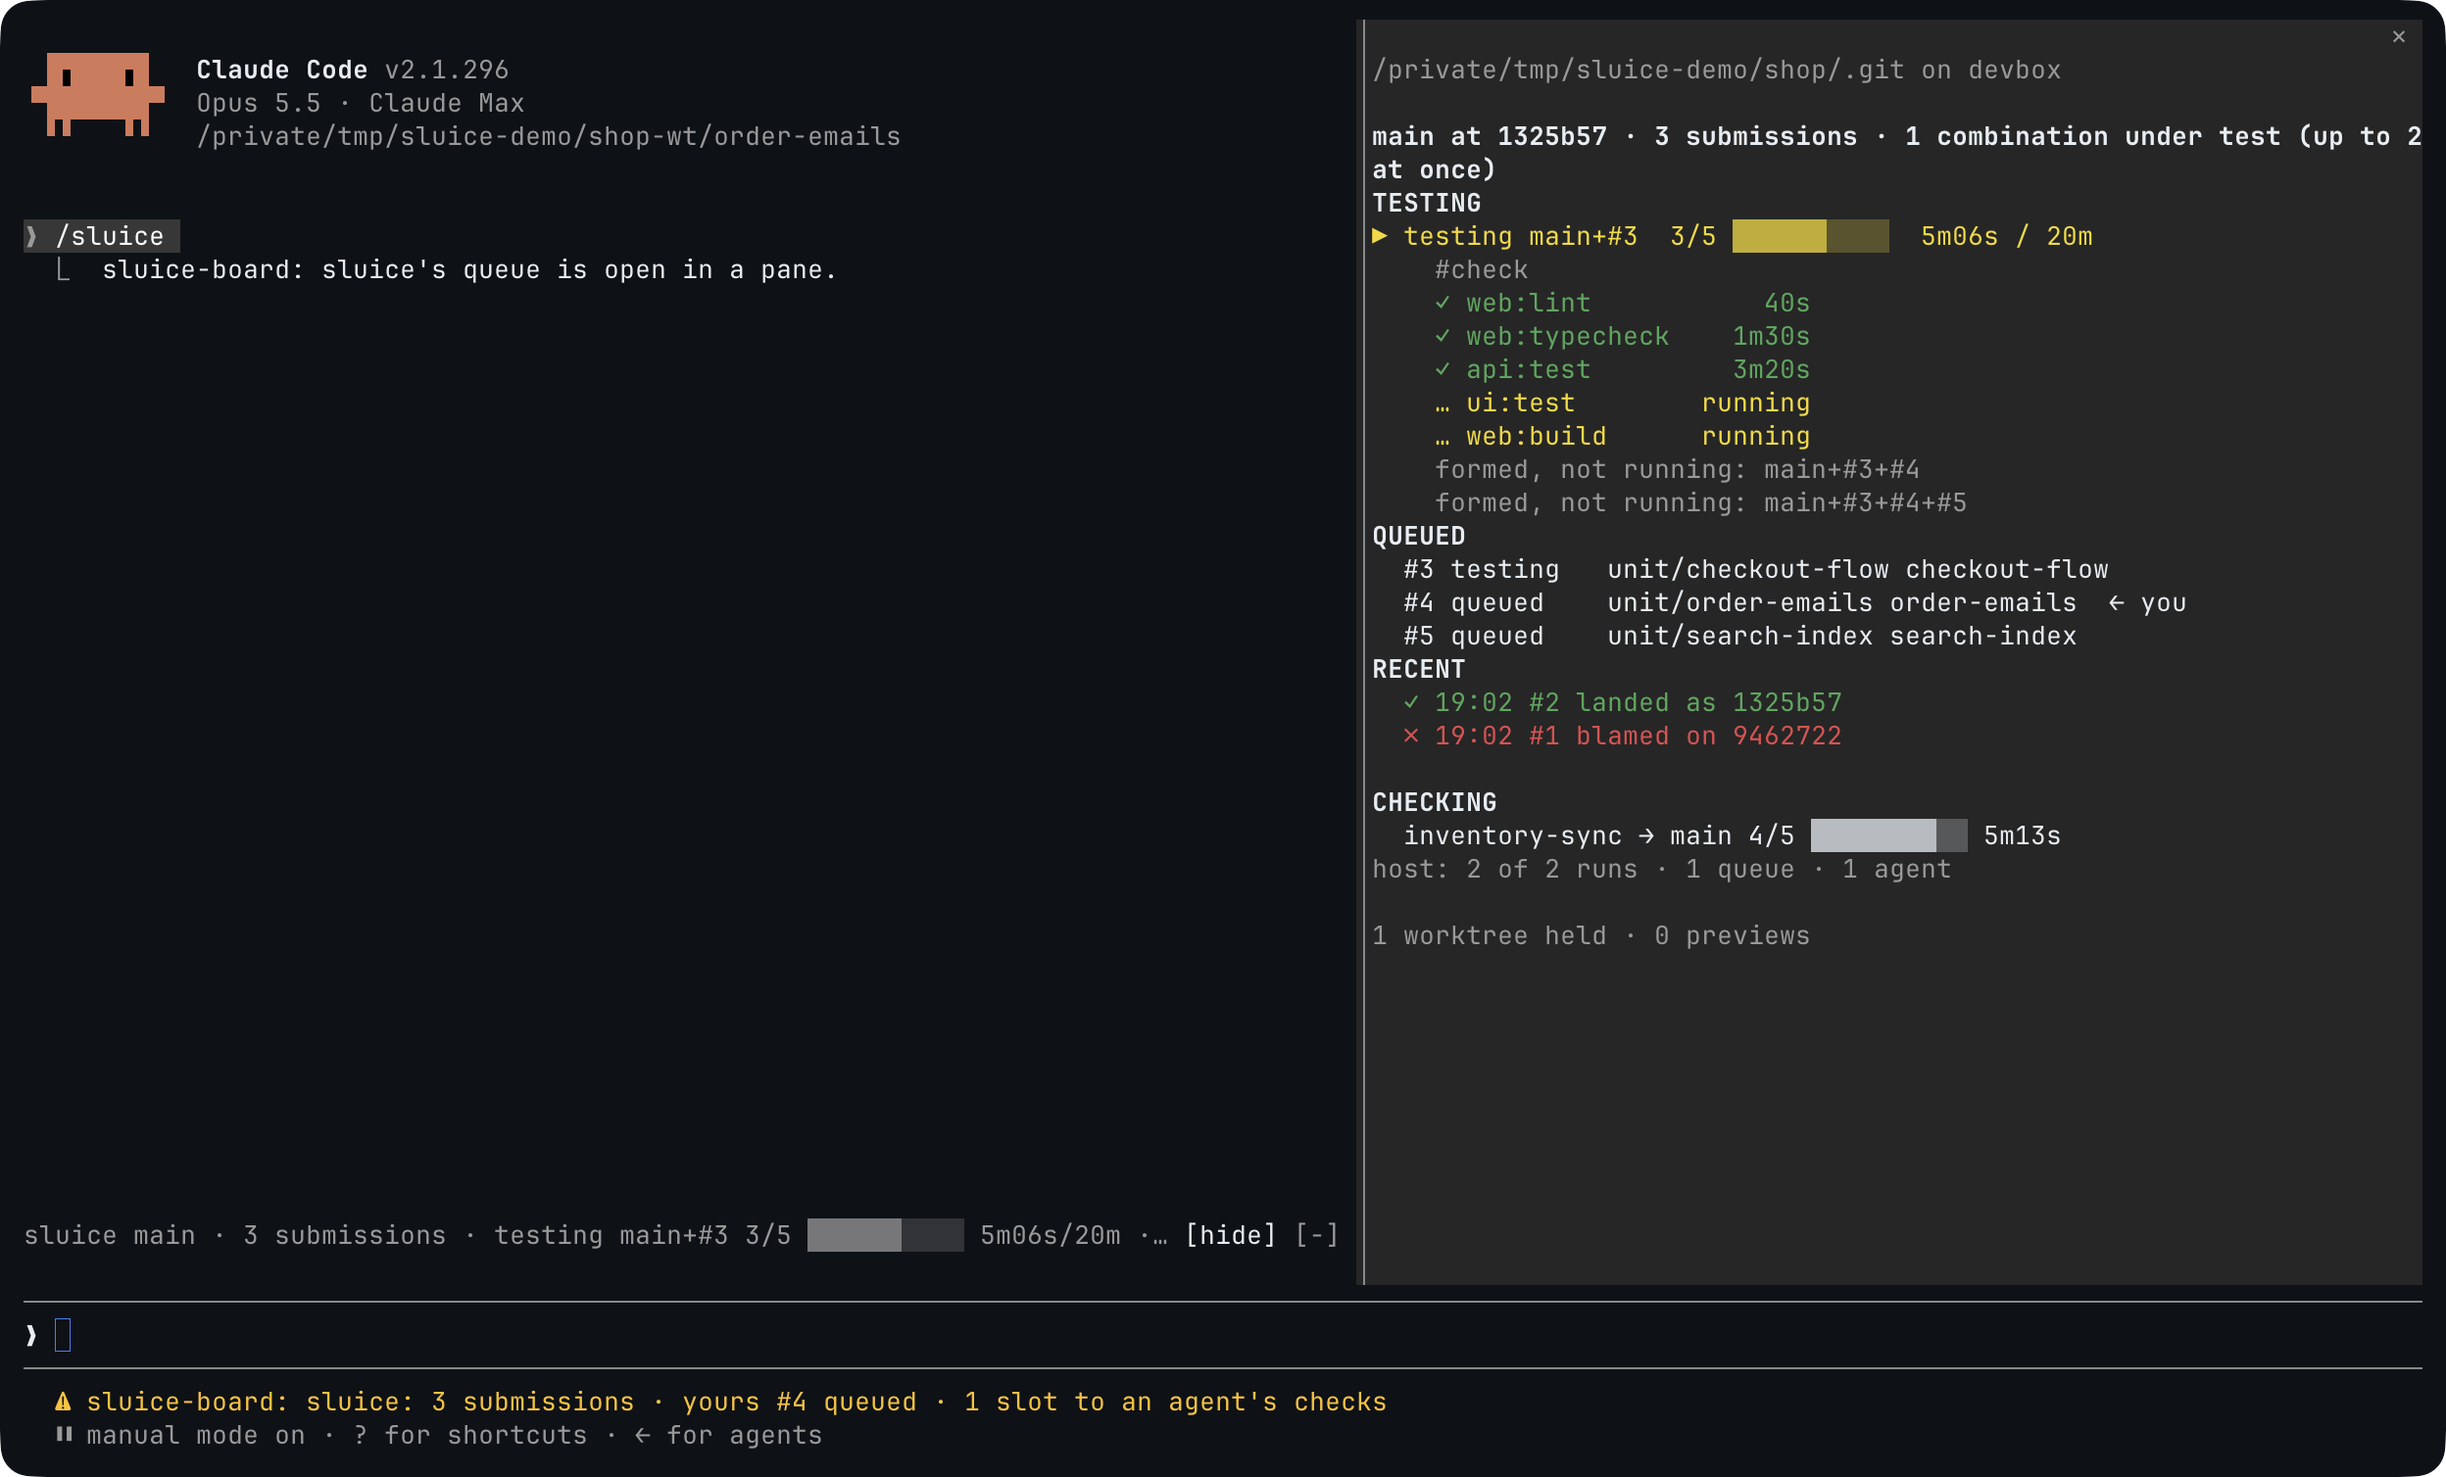
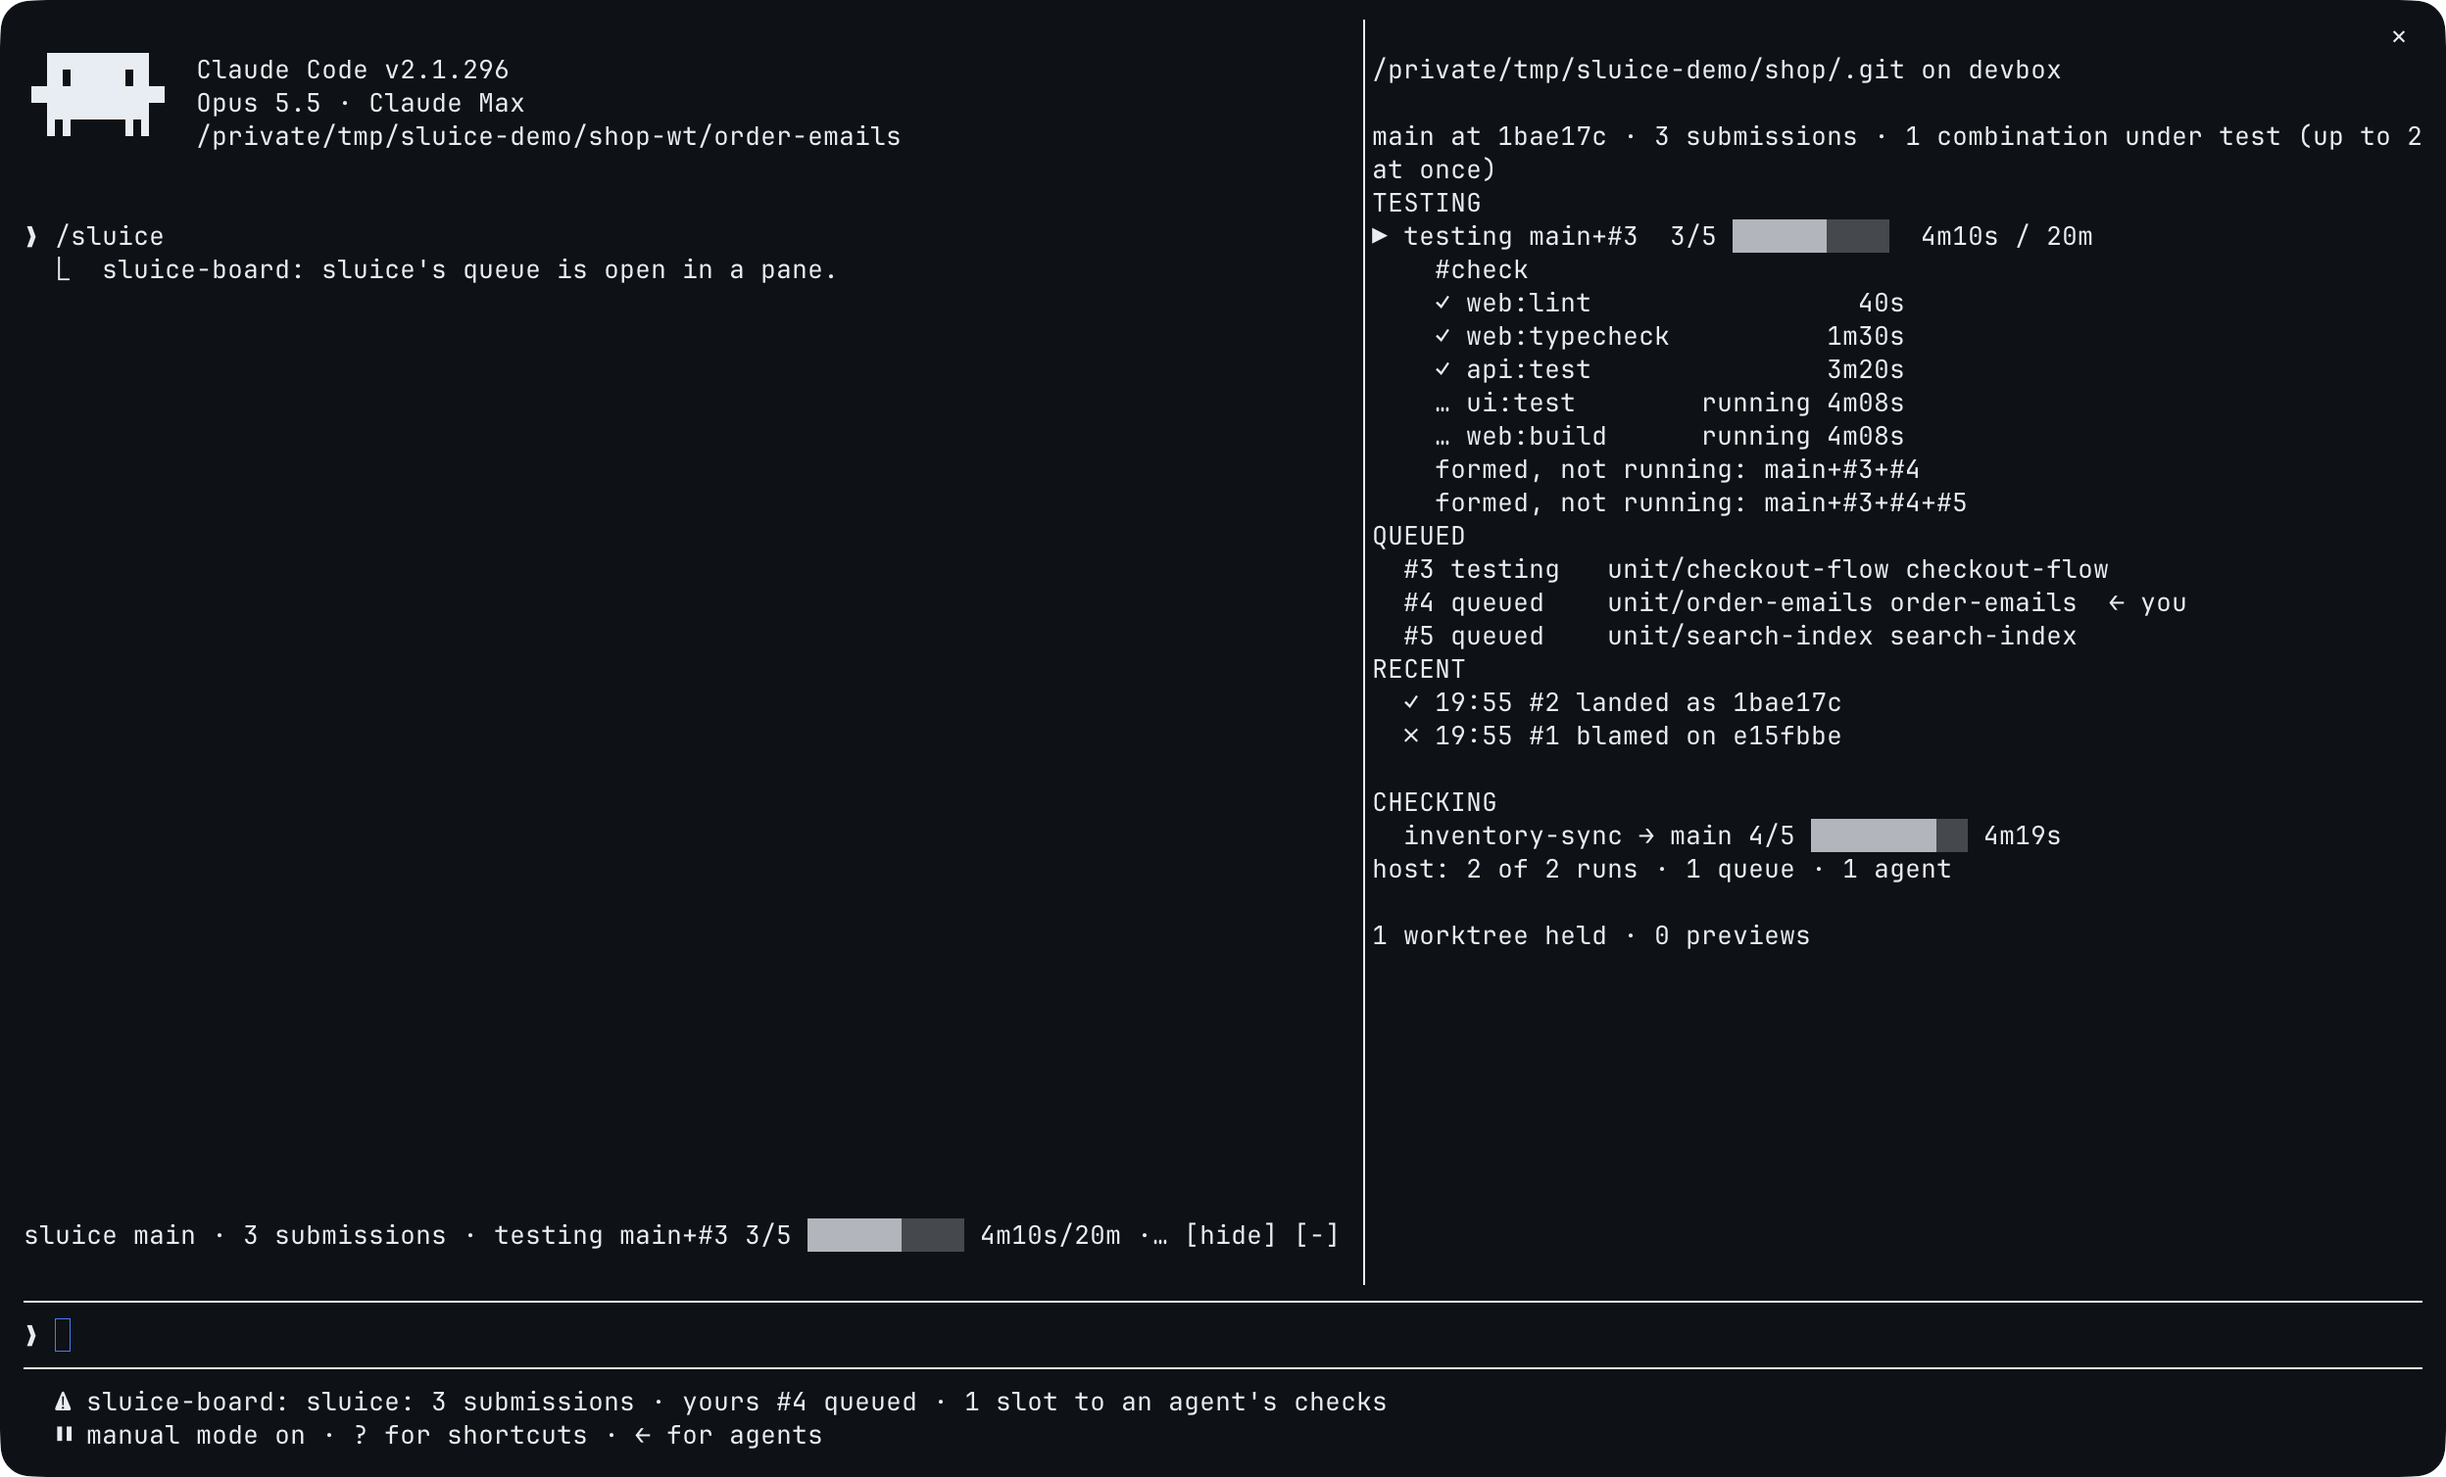
docs(plugin-board): retake the board's screenshots with a combination pressed open
The capture presses the combination's row as a person does, by keys
(ctrl+x tab twice, Tab, Enter, ctrl+x tab), so its tasks show opened,
three passed and two running. It trusts each worktree by its resolved
path, the one Claude Code asks about, and starts the demo's sessions
with --no-chrome, so neither question is in the frame. The alt text
says what the frames show.

diff --git a/site/src/content/docs/guides/claude-code.md b/site/src/content/docs/guides/claude-code.md
@@ -119,8 +119,8 @@ A second plugin, `sluice-board`, shows the queue inside the session:
 It needs no herdr: it shows the queue in any Claude Code session, with
 full-screen mode on or off.
 
-<a class="screenshot-light" href="/sluice/screenshots/board-light.webp"><img src="/sluice/screenshots/board-light.webp" alt="Claude Code with the /sluice pane docked on the right: two combinations under test at 3/5 with their tasks, one submission queued, a landing and a blame; the band above the prompt and the status line below it." width="1248" height="754" /></a>
-<a class="screenshot-dark" href="/sluice/screenshots/board-dark.webp"><img src="/sluice/screenshots/board-dark.webp" alt="Claude Code with the /sluice pane docked on the right: two combinations under test at 3/5 with their tasks, one submission queued, a landing and a blame; the band above the prompt and the status line below it." width="1248" height="754" /></a>
+<a class="screenshot-light" href="/sluice/screenshots/board-light.webp"><img src="/sluice/screenshots/board-light.webp" alt="Claude Code with the /sluice pane docked on the right: one combination under test at 3/5, pressed open to its tasks, three passed and two running; three submissions queued, this session's among them; a landing and a blame; an agent's check at 4/5; the band above the prompt and the status line below it." width="1248" height="754" /></a>
+<a class="screenshot-dark" href="/sluice/screenshots/board-dark.webp"><img src="/sluice/screenshots/board-dark.webp" alt="Claude Code with the /sluice pane docked on the right: one combination under test at 3/5, pressed open to its tasks, three passed and two running; three submissions queued, this session's among them; a landing and a blame; an agent's check at 4/5; the band above the prompt and the status line below it." width="1248" height="754" /></a>
 
 While a branch has a queue, the band above the prompt reads like
 `sluice main · 3 submissions · testing main+#12+#13 2m10s/15m · #14 waiting · last #11 landed as 9ecc34a`,

diff --git a/openspec/changes/the-boards-rows-open-in-place-or-link/tasks.md b/openspec/changes/the-boards-rows-open-in-place-or-link/tasks.md
@@ -49,7 +49,7 @@ command); add to `tests/fixture.ts` what a test needs. Run suites with
 
 ## 7. Screenshots and the gate
 
-- [ ] 7.1 Retake the screenshots with `moon run root:screenshots` in `devenv shell` on macOS, showing a combination opened if `plugins/screenshots-capture.sh` can press its row, else the pane folded; fix the alt text in the README and the guide to say what they show; by hand, since the gate drives no GUI terminal or logged-in Claude Code; verify by looking at `plugins/sluice-board/screenshots/board-{light,dark}.png` and `sluice exec main -- moon run site:prose`
+- [x] 7.1 Retake the screenshots with `moon run root:screenshots` in `devenv shell` on macOS, showing a combination opened if `plugins/screenshots-capture.sh` can press its row, else the pane folded; fix the alt text in the README and the guide to say what they show; by hand, since the gate drives no GUI terminal or logged-in Claude Code; verify by looking at `plugins/sluice-board/screenshots/board-{light,dark}.png` and `sluice exec main -- moon run site:prose`
 - [ ] 7.2 Try it once by hand: build the demo scene with `plugins/screenshots-scene.sh`, open `/sluice` in a session, press every row and follow every link; by hand, since only a person follows a link; every behaviour it checks has a test above
 - [x] 7.3 Commit, then run the gate's checks: `sluice exec main` passes
 

diff --git a/plugins/sluice-board/README.md b/plugins/sluice-board/README.md
@@ -4,7 +4,7 @@ sluice's queue inside a Claude Code session.
 
 <picture>
   <source media="(prefers-color-scheme: dark)" srcset="screenshots/board-dark.png">
-  <img src="screenshots/board-light.png" alt="Claude Code with the sluice board's /sluice pane docked on the right: two combinations under test at 3/5 with their tasks, one submission queued, a landing and a blame; the band above the prompt and the status line below it." width="800">
+  <img src="screenshots/board-light.png" alt="Claude Code with the sluice board's /sluice pane docked on the right: one combination under test at 3/5, pressed open to its tasks, three passed and two running; three submissions queued, this session's among them; a landing and a blame; an agent's check at 4/5; the band above the prompt and the status line below it." width="800">
 </picture>
 
 ```
